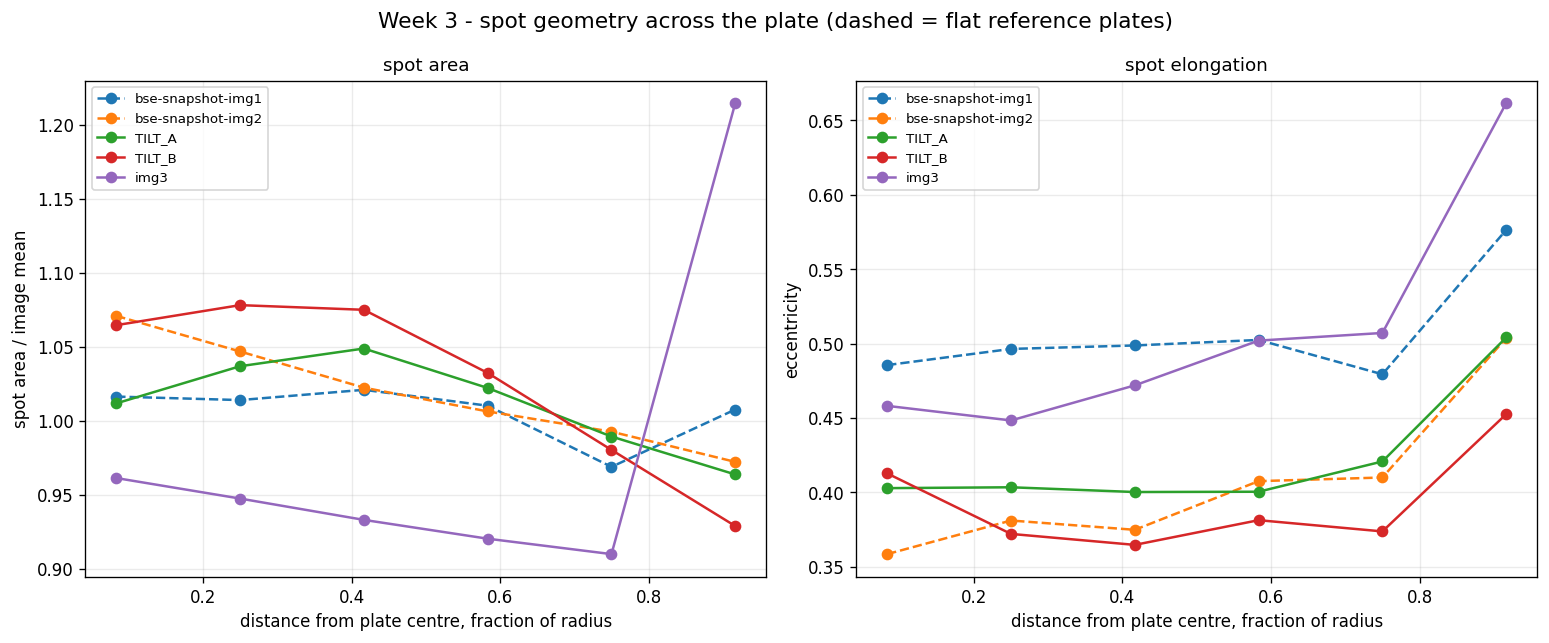
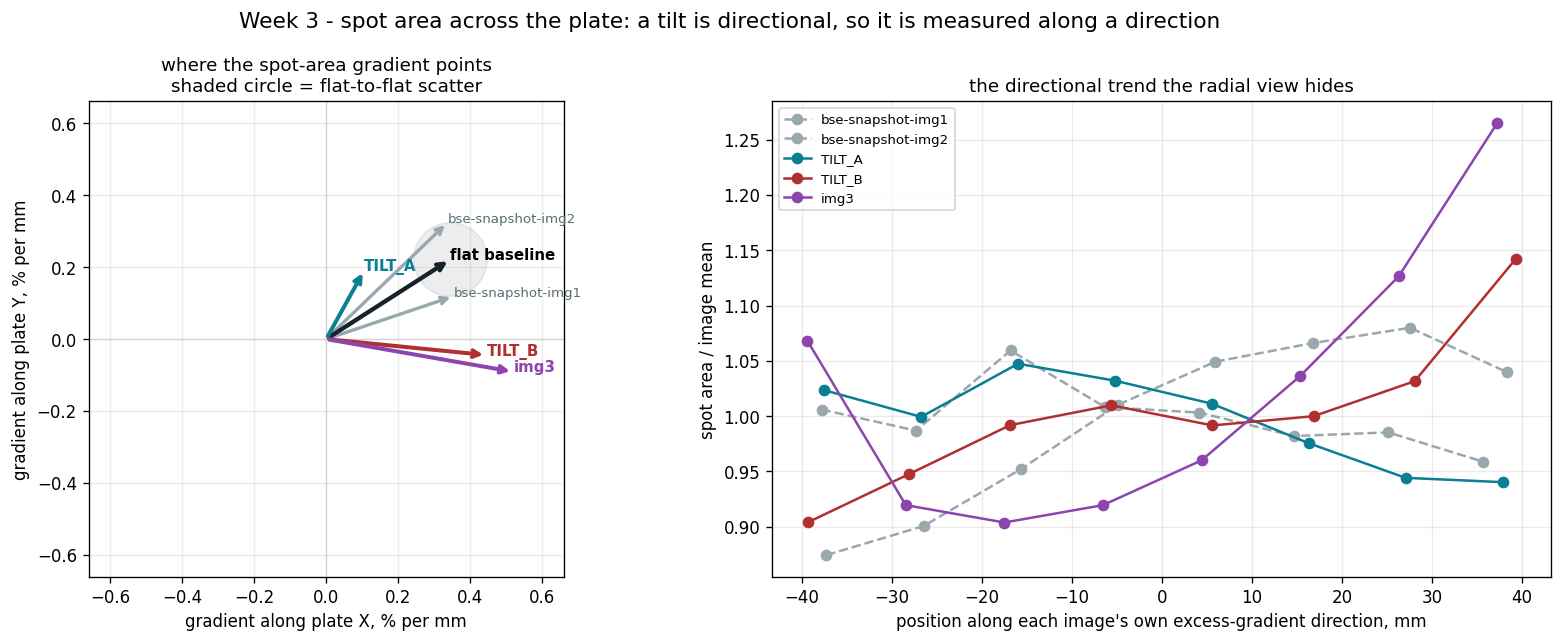
Week 3-4 figures: redraw both, and add the rotation sweep that was missing
The week-3 figure averaged over angle to show a tilt. A tilt is directional,
so that is exactly the display that destroys it: both tilted plates came out
looking calmer than a flat one. Replaced the radial panels with a gradient
compass in plate coordinates and a profile along each image's own excess
direction, measured against the flat-to-flat scatter.

The week-4 figure had four separate defects:

* the geometry family was never in the panel list, and it is the only
  variation that moves the measurand by more than a hundredth of a percent -
  a 5 deg rotation costs 0.91 % of pixel size;
* six runs detected nothing, so they have no pixel size at all, and plotting
  a zero error for them turned a total failure into a perfect score;
* the committed PNG predated 27e5a28 and still carried the span shading that
  commit removed, which condemned the whole usable range of bg_size, max_ecc
  and gate while marking nothing on blur and background;
* retention above 100 % was clipped away rather than explained. It is real:
  mild blur and reduced contrast round the blobs, so more of them pass the
  shape filter than in the clean run. The clean run is not our best detection.

README updated to state all of this next to the figures.

diff --git a/robustness.py b/robustness.py
@@ -39,6 +39,7 @@ from skimage import io
 import matplotlib
 matplotlib.use("Agg")
 import matplotlib.pyplot as plt
+import matplotlib.lines as mlines
 
 import bse_register as B
 
@@ -241,38 +242,112 @@ def main(img_path="bse-snapshot-img2.png", ref_path="reference_spots.csv"):
 
 
 def draw(rows, out_path="week4-robustness.png"):
-    families = ["contrast", "noise", "blur", "background", "occlusion",
-                "bg_size", "min_spot_px", "max_ecc", "gate"]
-    fig, axes = plt.subplots(3, 3, figsize=(15, 10))
-    for ax, fam in zip(axes.ravel(), families):
+    """Redraw the sweep.
+
+    Four things this figure has to get right, because the first version of it
+    got all four wrong:
+
+    * The geometry family was simply missing from the panel list, and it is
+      the one family that moves the measurand: a 5 deg rotation costs 0.9 %
+      of pixel size, three orders of magnitude more than anything else here.
+    * A run that detects nothing has no pixel size, so there is no error to
+      plot. Drawing a zero there turns a total failure into a perfect score.
+    * A swept parameter normally fails at one end only, so shading from the
+      first failure to the edge of the axis paints most of a usable range as
+      unreliable. Failing runs are marked one by one instead.
+    * The retained fraction is measured against the clean run and goes ABOVE
+      100 %: mild blur and reduced contrast round the blobs and let more of
+      them through the shape filter. The clean run is not the best detection,
+      so the axis has to show that rather than clip it away.
+    """
+    units = {"contrast": "c", "noise": "sigma", "blur": "sigma",
+             "background": "amp", "occlusion": "frac",
+             "geometry": "rotation, deg", "bg_size": "px",
+             "min_spot_px": "px", "max_ecc": "e", "gate": "frac"}
+    nm = lambda r: int(r["n_matched"])
+    FLOOR = 1e-3
+
+    panels = []
+    for fam in units:
         sel = [r for r in rows if r["family"] == fam]
+        if fam == "geometry":
+            line = [r for r in sel if "shift0+0" in r["parameter"]]
+            extra = [r for r in sel if "shift0+0" not in r["parameter"]]
+        else:
+            line, extra = sel, []
+        panels.append((fam, sorted(line, key=lambda r: r["value"]), extra))
+
+    fig, axes = plt.subplots(2, 5, figsize=(19, 7.8))
+    for col, (ax, (fam, sel, extra)) in enumerate(zip(axes.ravel(), panels)):
         x = [r["value"] for r in sel]
         ax.plot(x, [100 * r["retained"] for r in sel], "o-", color="#0a7e92",
-                label="spots retained, %")
+                zorder=4)
+        ax.axhline(100, color="#0a7e92", lw=0.8, ls=":", alpha=0.6)
         ax.axhline(100 * MIN_RETAINED, color="#c1660d", lw=1, ls="--")
-        ax.set_ylim(-3, 103)
-        ax.set_xlabel(f"{fam}  ({sel[0]['parameter']})")
-        ax.set_ylabel("spots retained, %", color="#0a7e92")
-        ax2 = ax.twinx()
-        ax2.plot(x, [abs(r["pixel_err_pct"]) for r in sel], "s--",
-                 color="#b03030", ms=4, label="|pixel-size error|, %")
-        ax2.axhline(MAX_PIXEL_ERR_PCT, color="#b03030", lw=0.8, ls=":")
-        ax2.set_ylabel("|pixel err|, %", color="#b03030")
-        ax2.set_yscale("symlog", linthresh=0.01)
-        # Mark the runs that failed rather than shading a span. A swept
-        # parameter usually fails only at one end, so shading from the first
-        # failure to the end of the axis paints most of a perfectly good range
-        # as unreliable.
-        bad = [r for r in sel if not r["reliable"]]
-        if bad:
-            ax.plot([r["value"] for r in bad],
-                    [100 * r["retained"] for r in bad], "x", color="#c1660d",
-                    ms=9, mew=2, zorder=5, label="outside the limits")
+        ax.set_ylim(-7, 115)
+        ax.set_xlabel(f"{fam}  ({units[fam]})", fontsize=9)
         ax.set_title(fam, fontsize=11)
         ax.grid(alpha=0.2)
+        if col % 5 == 0:
+            ax.set_ylabel("spots retained, % of clean run", color="#0a7e92",
+                          fontsize=9)
+        else:
+            ax.tick_params(labelleft=False)
+
+        ax2 = ax.twinx()
+        live = [r for r in sel if nm(r) > 0 and np.isfinite(r["pixel_err_pct"])]
+        ax2.plot([r["value"] for r in live],
+                 [max(abs(r["pixel_err_pct"]), FLOOR) for r in live],
+                 "s--", color="#b03030", ms=4, zorder=3)
+        ax2.axhline(MAX_PIXEL_ERR_PCT, color="#b03030", lw=0.8, ls=":")
+        ax2.set_yscale("log")
+        ax2.set_ylim(FLOOR * 0.55, 300)
+        if col % 5 == 4:
+            ax2.set_ylabel("|pixel-size error|, %", color="#b03030",
+                           fontsize=9)
+        else:
+            ax2.tick_params(labelright=False)
+
+        # Runs that found nothing: no measurand exists, so nothing is drawn on
+        # the red axis. The x position is marked instead.
+        dead = [r for r in sel if nm(r) == 0]
+        for r in dead:
+            ax.axvline(r["value"], color="#777", lw=1, ls=":", zorder=1)
+        if dead:
+            ax.plot([r["value"] for r in dead], [0] * len(dead), "v",
+                    color="#333", ms=8, zorder=6)
+
+        # Runs that survived but fell outside the limits.
+        bad = [r for r in sel if not r["reliable"] and nm(r) > 0]
+        ax.plot([r["value"] for r in bad], [100 * r["retained"] for r in bad],
+                "x", color="#c1660d", ms=9, mew=2, zorder=7)
+
+        for r in extra:
+            ax.plot([r["value"]], [100 * r["retained"]], "D", color="#0a7e92",
+                    mfc="none", mew=1.6, ms=8, zorder=7)
+        if extra:
+            ax.set_title("geometry  (open: rotation + translation)",
+                         fontsize=10)
+
+    handles = [
+        mlines.Line2D([], [], color="#0a7e92", marker="o",
+                      label="spots retained, % of the clean run"),
+        mlines.Line2D([], [], color="#b03030", marker="s", ls="--",
+                      label="|pixel-size error|, % (log; floored at 1e-3)"),
+        mlines.Line2D([], [], color="#c1660d", marker="x", ls="none", mew=2,
+                      label=f"outside the limits (<{100*MIN_RETAINED:.0f} % "
+                            f"kept or >{MAX_PIXEL_ERR_PCT} % error)"),
+        mlines.Line2D([], [], color="#333", marker="v", ls="none",
+                      label="detection collapsed - no measurand"),
+    ]
+    fig.legend(handles=handles, loc="lower center", ncol=4, frameon=False,
+               fontsize=9, bbox_to_anchor=(0.5, -0.012))
     fig.suptitle("MT035A Week 4 - robustness: where each measurand starts to "
                  "move, and where the method stops being reliable", fontsize=13)
-    fig.tight_layout()
+    fig.text(0.5, 0.028, "Retention above 100 % is real: mild blur and reduced "
+             "contrast round the blobs, so more of them pass the shape filter "
+             "than in the clean run.", ha="center", fontsize=8.5, color="#444")
+    fig.tight_layout(rect=(0, 0.055, 1, 1))
     fig.savefig(out_path, dpi=120, bbox_inches="tight",
                 metadata={"Software": None})
     plt.close(fig)

diff --git a/tilt_analysis.py b/tilt_analysis.py
@@ -97,24 +97,61 @@ def main(flat_paths, test_paths, out_path="week3-tilt-analysis.png"):
           "supplied data. What the data\nsupports is a focus gradient across "
           "the plate, consistent with a tilt, with the\nmagnitudes above.")
 
-    fig, ax = plt.subplots(1, 2, figsize=(13, 5.4))
-    for n in flats + tests:
-        plate, area, ecc, _ = data[n]
-        r = np.hypot(*plate.T); r /= r.max()
-        edges = np.linspace(0, 1, 7)
+    # ---------------------------------------------------------------- figure
+    # A radial profile is the wrong display for a tilt: the effect is
+    # directional, so averaging over angle is exactly what destroys it. The
+    # two panels below show the measurement the argument actually rests on -
+    # where each image's gradient points, and the trend along the direction in
+    # which the test plates depart from the flat baseline.
+    fig, ax = plt.subplots(1, 2, figsize=(14, 5.4))
+
+    lim = max(np.hypot(*g) for g in grads.values()) * 100 * 1.25
+    ax[0].axhline(0, color="#dddddd", lw=.8, zorder=0)
+    ax[0].axvline(0, color="#dddddd", lw=.8, zorder=0)
+    for n in flats:
+        v = grads[n] * 100
+        ax[0].annotate("", xy=v, xytext=(0, 0),
+                       arrowprops=dict(arrowstyle="->", color="#9aa8ae", lw=2))
+        ax[0].annotate(n, xy=v, fontsize=8, color="#5A6C74")
+    bv = baseline * 100
+    ax[0].annotate("", xy=bv, xytext=(0, 0),
+                   arrowprops=dict(arrowstyle="->", color="#16232B", lw=2.6))
+    ax[0].annotate("flat baseline", xy=bv, fontsize=9, fontweight="bold")
+    circle = plt.Circle(bv, floor * 100, color="#16232B", alpha=.08)
+    ax[0].add_patch(circle)
+    for n, c in zip(tests, ["#0a7e92", "#b03030", "#8e44ad", "#c1660d"]):
+        v = grads[n] * 100
+        ax[0].annotate("", xy=v, xytext=(0, 0),
+                       arrowprops=dict(arrowstyle="->", color=c, lw=2.4))
+        ax[0].annotate(n, xy=v, fontsize=9, color=c, fontweight="bold")
+    ax[0].set_xlim(-lim, lim); ax[0].set_ylim(-lim, lim)
+    ax[0].set_aspect("equal"); ax[0].grid(alpha=.25)
+    ax[0].set_xlabel("gradient along plate X, % per mm")
+    ax[0].set_ylabel("gradient along plate Y, % per mm")
+    ax[0].set_title("where the spot-area gradient points\n"
+                    "shaded circle = flat-to-flat scatter", fontsize=11)
+
+    for n, c in zip(flats + tests,
+                    ["#9aa8ae", "#9aa8ae", "#0a7e92", "#b03030", "#8e44ad"]):
+        plate, area, _, _ = data[n]
+        excess = grads[n] - baseline
+        if np.hypot(*excess) < 1e-12:
+            continue
+        unit = excess / np.hypot(*excess)
+        t = plate @ unit                      # mm along the departure direction
+        edges = np.linspace(t.min(), t.max(), 9)
         mid = 0.5 * (edges[:-1] + edges[1:])
-        style = "o--" if n in flats else "o-"
-        ax[0].plot(mid, [area[(r >= lo) & (r < hi)].mean()
-                         for lo, hi in zip(edges[:-1], edges[1:])], style, label=n)
-        ax[1].plot(mid, [ecc[(r >= lo) & (r < hi)].mean()
-                         for lo, hi in zip(edges[:-1], edges[1:])], style, label=n)
-    ax[0].set_ylabel("spot area / image mean"); ax[0].set_title("spot area", fontsize=11)
-    ax[1].set_ylabel("eccentricity"); ax[1].set_title("spot elongation", fontsize=11)
-    for a in ax:
-        a.set_xlabel("distance from plate centre, fraction of radius")
-        a.grid(alpha=.25); a.legend(fontsize=8)
-    fig.suptitle("Week 3 - spot geometry across the plate "
-                 "(dashed = flat reference plates)", fontsize=13)
+        prof = [area[(t >= lo) & (t < hi)].mean()
+                if ((t >= lo) & (t < hi)).sum() > 4 else np.nan
+                for lo, hi in zip(edges[:-1], edges[1:])]
+        ax[1].plot(mid, prof, "o--" if n in flats else "o-", color=c, label=n)
+    ax[1].set_xlabel("position along each image's own excess-gradient direction, mm")
+    ax[1].set_ylabel("spot area / image mean")
+    ax[1].grid(alpha=.25); ax[1].legend(fontsize=8)
+    ax[1].set_title("the directional trend the radial view hides", fontsize=11)
+
+    fig.suptitle("Week 3 - spot area across the plate: a tilt is directional, "
+                 "so it is measured along a direction", fontsize=13)
     fig.tight_layout()
     fig.savefig(out_path, dpi=120, bbox_inches="tight", metadata={"Software": None})
     print("\nwritten:", out_path)

diff --git a/README.md b/README.md
@@ -169,6 +169,16 @@ and the reading use the same in-plane coordinates. Tilt changes the working
 distance, that is the focus, not the geometry. Any tilt estimate has to come
 from focus.
 
+The left panel shows where each image's spot-area gradient points: the two
+flats sit inside the circle of their own scatter, both tilted plates and the
+plate labelled flat 3 fall outside it. The right panel follows spot area along
+each image's own departure direction — the tilted plates trend monotonically,
+the flats wander. A radial average, which is the obvious thing to plot, hides
+all of this, because a tilt is directional and averaging over angle destroys
+exactly the signal. (TILT_A trends downward rather than upward because its raw
+gradient points nearly opposite to its excess: its departure from the baseline
+is a weakening in the baseline's own direction.)
+
 **A flat plate already varies.** Spot area has a directional gradient of
 0.37–0.47 %/mm on a flat plate, because the BSE detector sits to one side. That
 is the same order as the tilt effect, so a raw gradient separates nothing — one
@@ -200,6 +210,18 @@ images. Tilt degrades focus, not the coordinate check.
 
 ![Robustness sweep](docs/week4-robustness.png)
 
+Four things in this figure are worth reading carefully, because the first
+version of it got all four wrong. Rotation was missing from the panels
+altogether, and it is the only variation that moves the measurand by more than
+a hundredth of a percent. Six runs found no spots at all; they have no pixel
+size, so plotting a zero error for them turned total failure into a perfect
+score — they now carry a marker on the axis and no red point. Shading a span
+from the first failure to the edge of the axis condemned whole usable ranges,
+so failing runs are marked one at a time. And retention above 100 % is real,
+not a bug: mild blur and reduced contrast round the blobs, so **more** of them
+pass the shape filter than in the clean run — the clean run is not the best
+detection this pipeline can do.
+
 `robustness.py` re-runs the whole pipeline on a real snapshot under controlled
 degradations and parameter changes, one at a time. Of 61 runs, 44 stayed inside
 both limits and 52 remained accurate on whatever spots survived. Two criteria are kept apart
@@ -220,6 +242,7 @@ matters for a limit.
 | minimum blob area | 2–64 px | never in range | — |
 | eccentricity limit | 0.70–0.99 | 0.55 | pipeline collapses |
 | match gate | 0.45–0.75 × pitch | 0.30 | pipeline collapses |
+| known rotation | 2° | 5° | **accuracy** (0.91 % pixel size) |
 
 **Contrast is a non-issue** — compressing grey values twelvefold changes
 nothing, because the flatten-and-subtract step normalises the background away
